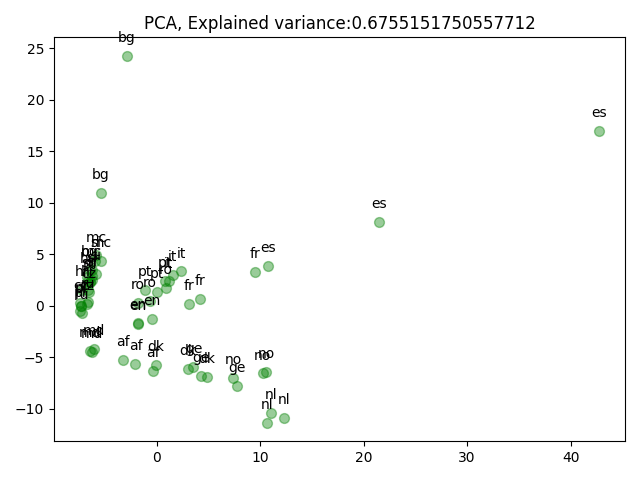
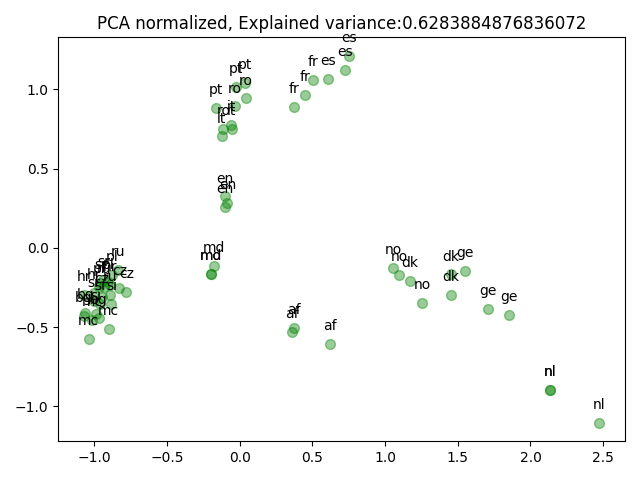
Fixed normalization one last time, now works well. Updated graph PCA1

diff --git a/03/naloga3.py b/03/naloga3.py
@@ -125,7 +125,8 @@ def prepare_data_matrix():
             if k in vector.keys(): # check if the document of language has this key
                 # find the number of k occurences in document of language "lang",
                 # NORMALIZE IT with the len of the document and save it in matrix
-                num = 100 * vector[k] / len(langs[lang]) # divide with the size of the document
+                len = sum(langs[lang].values())
+                num = 100 * vector[k] / len # divide with the size of the document
                 X[j][i] = num
             else:   # assign 0 to it
                 X[j][i] = 0
@@ -248,7 +249,7 @@ def plot_PCA():
 
     plt.scatter(transformed[0, :], transformed[1, :], c='green', s=50, alpha=0.4)
 
-    title = 'PCA, Explained variance:' + str(explained_variance_ratio(X, W, eigenvalues))
+    title = 'PCA normalized, Explained variance:' + str(explained_variance_ratio(X, W, eigenvalues))
 
     for i, language in enumerate(languages):
         plt.annotate(language[:-2],  # this is the text
